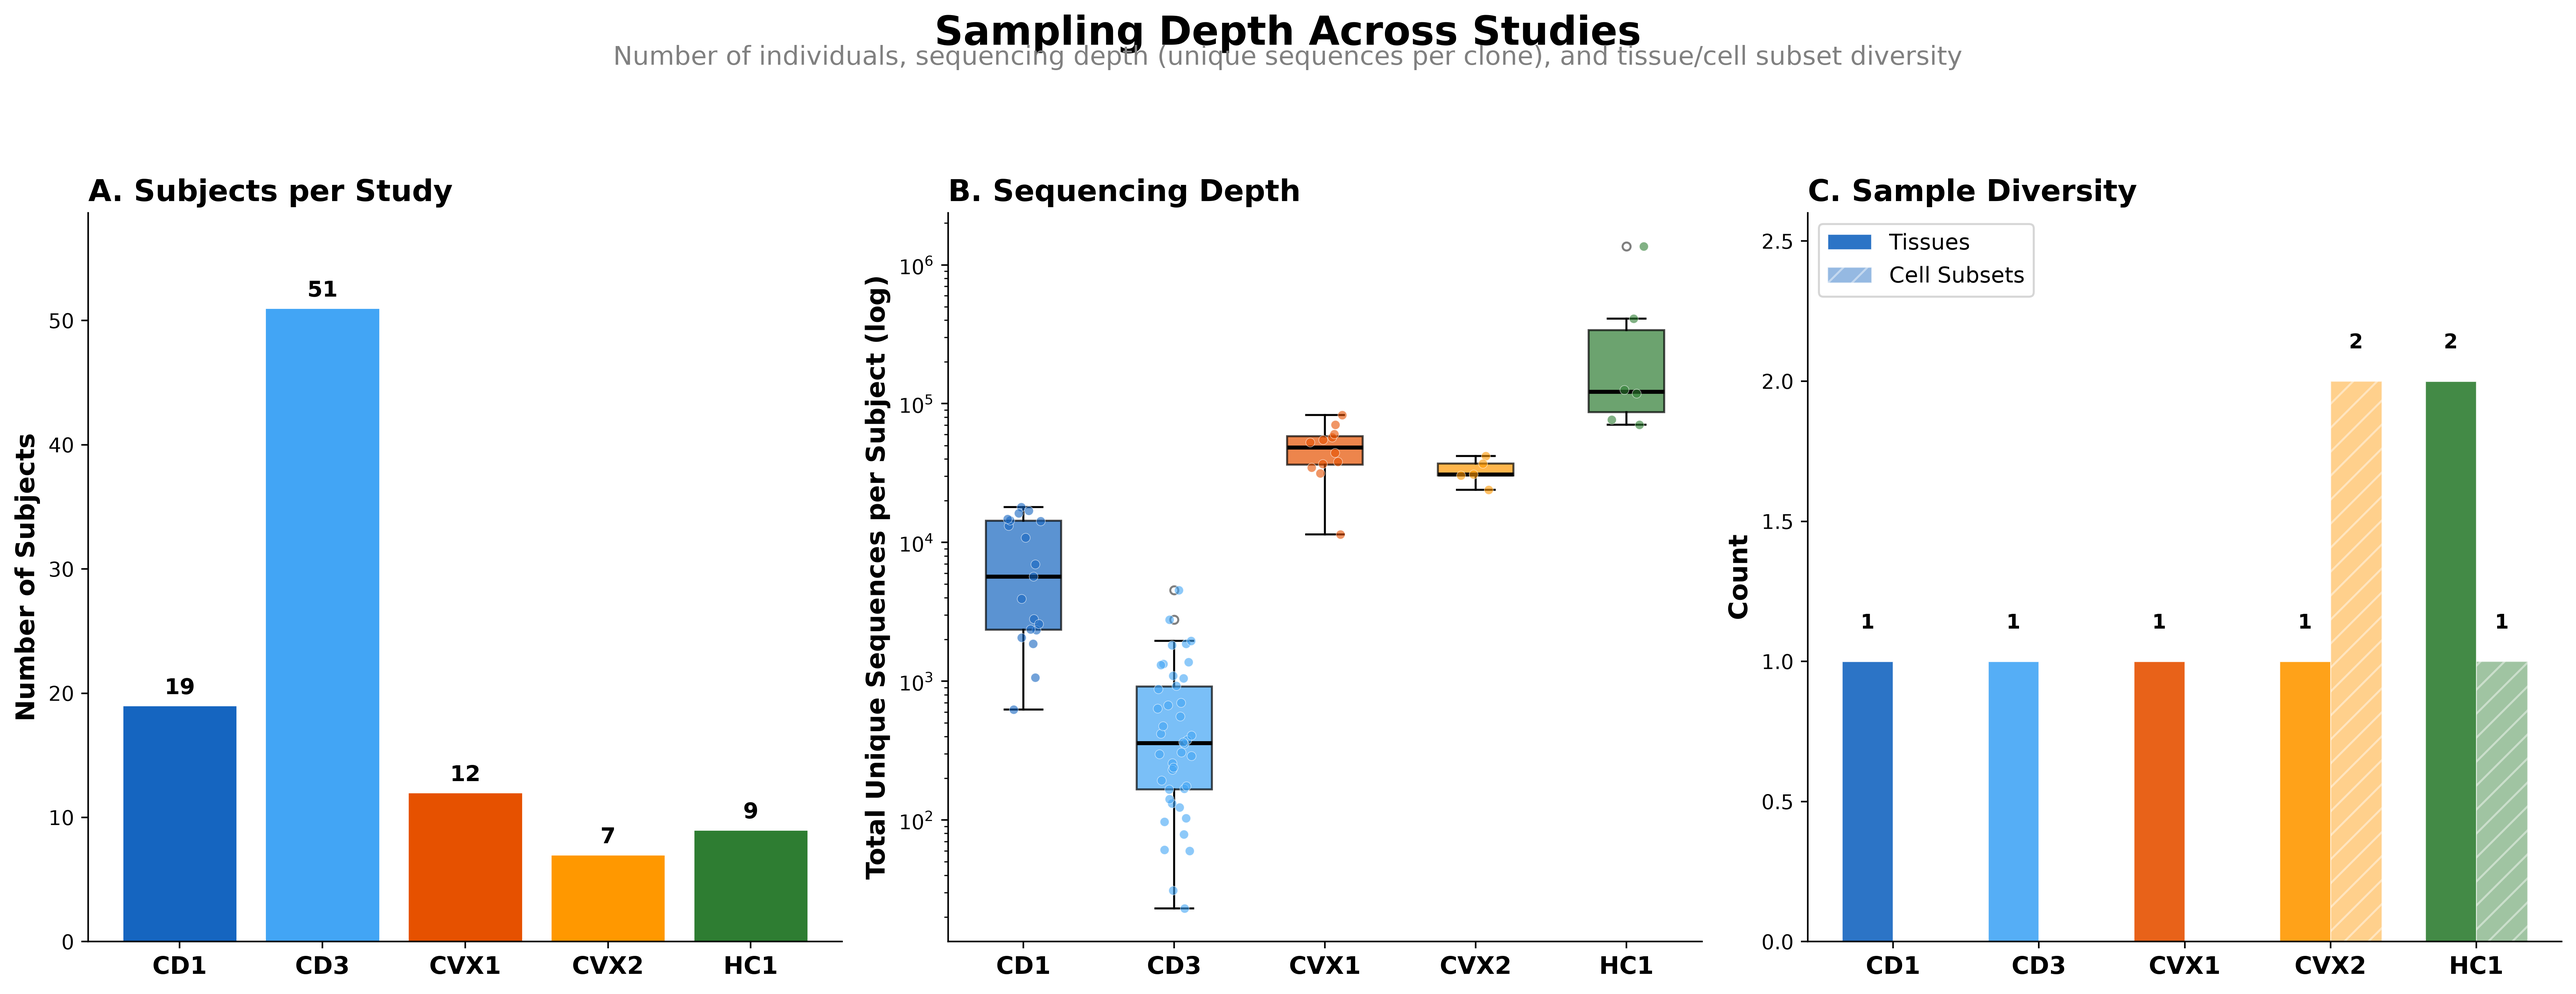
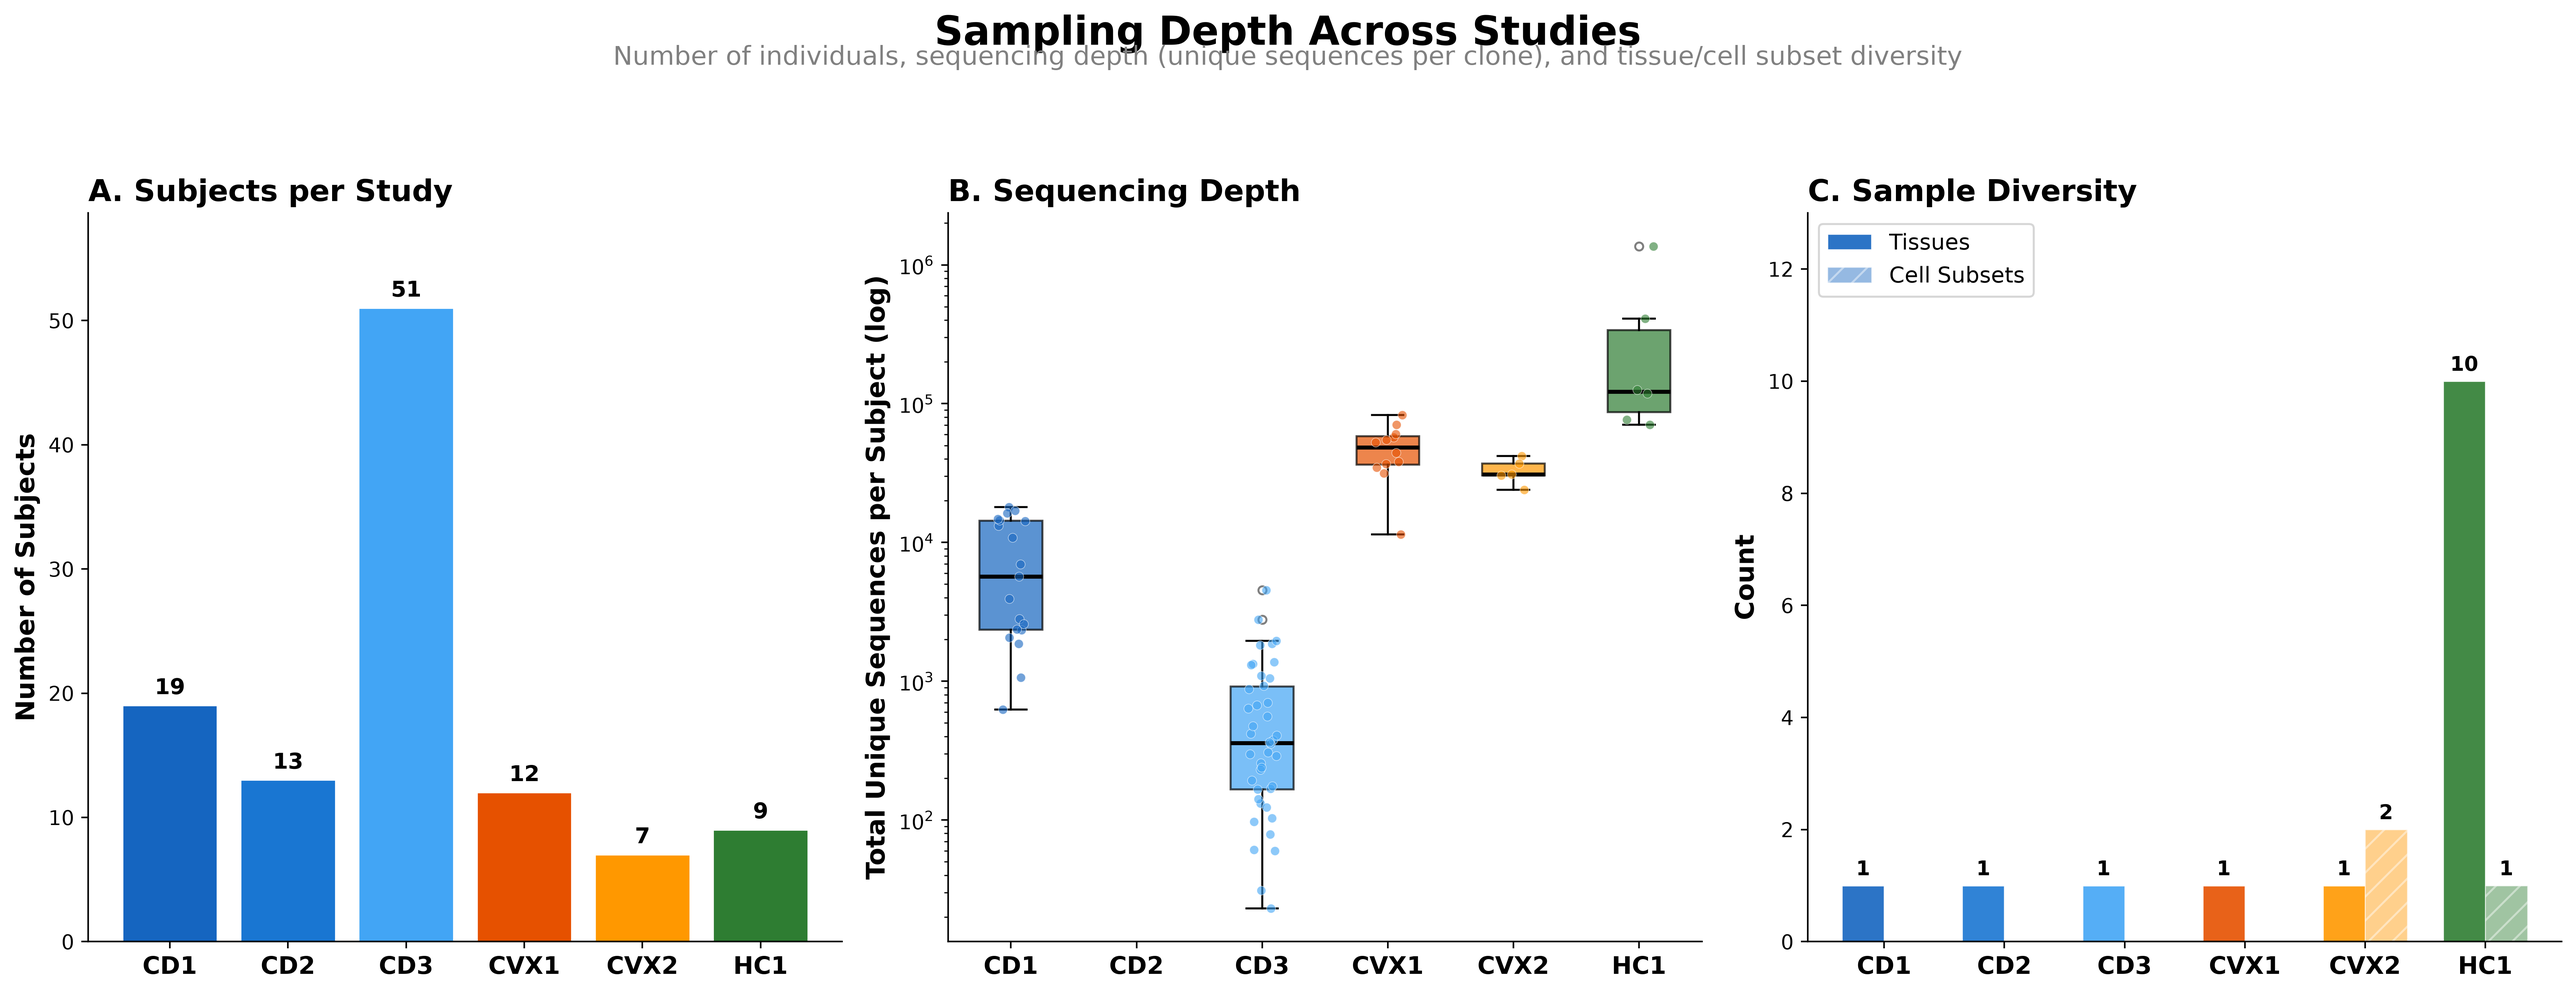
Fix sampling depth figure: add CD2 study, correct HC1 tissue count
CD2 (covid19 prefix) was missing from study map. HC1 tissue count was
only 2 from metadata; now enriched from clone_size_ALL_tissue.json
showing all 10 tissues.

diff --git a/immunedb_STATS_API/metadata/sampling_depth_fig.py b/immunedb_STATS_API/metadata/sampling_depth_fig.py
@@ -14,7 +14,7 @@ with open("clonal_analysis/clone_size/data/clone_size_ALL.json") as f:
     clone_data = json.load(f)
 
 STUDY_MAP = [
-    ("covid_db2", "CD1"), ("Covid19_db3", "CD3"),
+    ("covid_db2", "CD1"), ("covid19", "CD2"), ("Covid19_db3", "CD3"),
     ("vaccine2", "CVX1"), ("covid_vaccine_new", "CVX2"),
     ("lp16", "HC1"), ("sykesIgblast2020", "GT1"),
 ]
@@ -45,6 +45,22 @@ for entry in meta_data["Result"]:
         study_meta[study]["cell_subsets"].add(cs)
     study_meta[study]["samples"] += 1
 
+# ---- Enrich tissue counts from clone_size_ALL_tissue.json ----
+with open("clonal_analysis/clone_size/data/clone_size_ALL_tissue.json") as f:
+    tissue_data = json.load(f)
+for entry in tissue_data["Result"]:
+    rep = entry["repertoire"]
+    rid = rep["repertoire_id"]
+    study = get_study(rid)
+    if not study:
+        continue
+    keys = [k.strip() for k in rep.get("meta_key", [])]
+    vals = [v.strip() for v in rep.get("meta_value", [])]
+    meta = dict(zip(keys, vals))
+    tissue = meta.get("tissue", "NA")
+    if tissue != "NA":
+        study_meta[study]["tissues"].add(tissue)
+
 # ---- Clone data: sequencing depth per subject ----
 subj_depth = defaultdict(lambda: {"study": "", "n_clones": 0, "total_seqs": 0})
 for entry in clone_data["Result"]:
@@ -69,12 +85,10 @@ for subj, info in subj_depth.items():
     study_depth[s]["clones_per_subj"].append(info["n_clones"])
 
 # ---- Build table data ----
-studies = ["CD1", "CD2", "CD3", "CVX1", "CVX2", "HC1", "GT1"]
-# CD2 is missing from clone data, skip it
-studies_with_data = ["CD1", "CD3", "CVX1", "CVX2", "HC1"]
+studies_with_data = ["CD1", "CD2", "CD3", "CVX1", "CVX2", "HC1"]
 
 study_colors = {
-    "CD1": "#1565c0", "CD2": "#1e88e5", "CD3": "#42a5f5",
+    "CD1": "#1565c0", "CD2": "#1976d2", "CD3": "#42a5f5",
     "CVX1": "#e65100", "CVX2": "#ff9800",
     "HC1": "#2e7d32", "GT1": "#78909c",
 }
